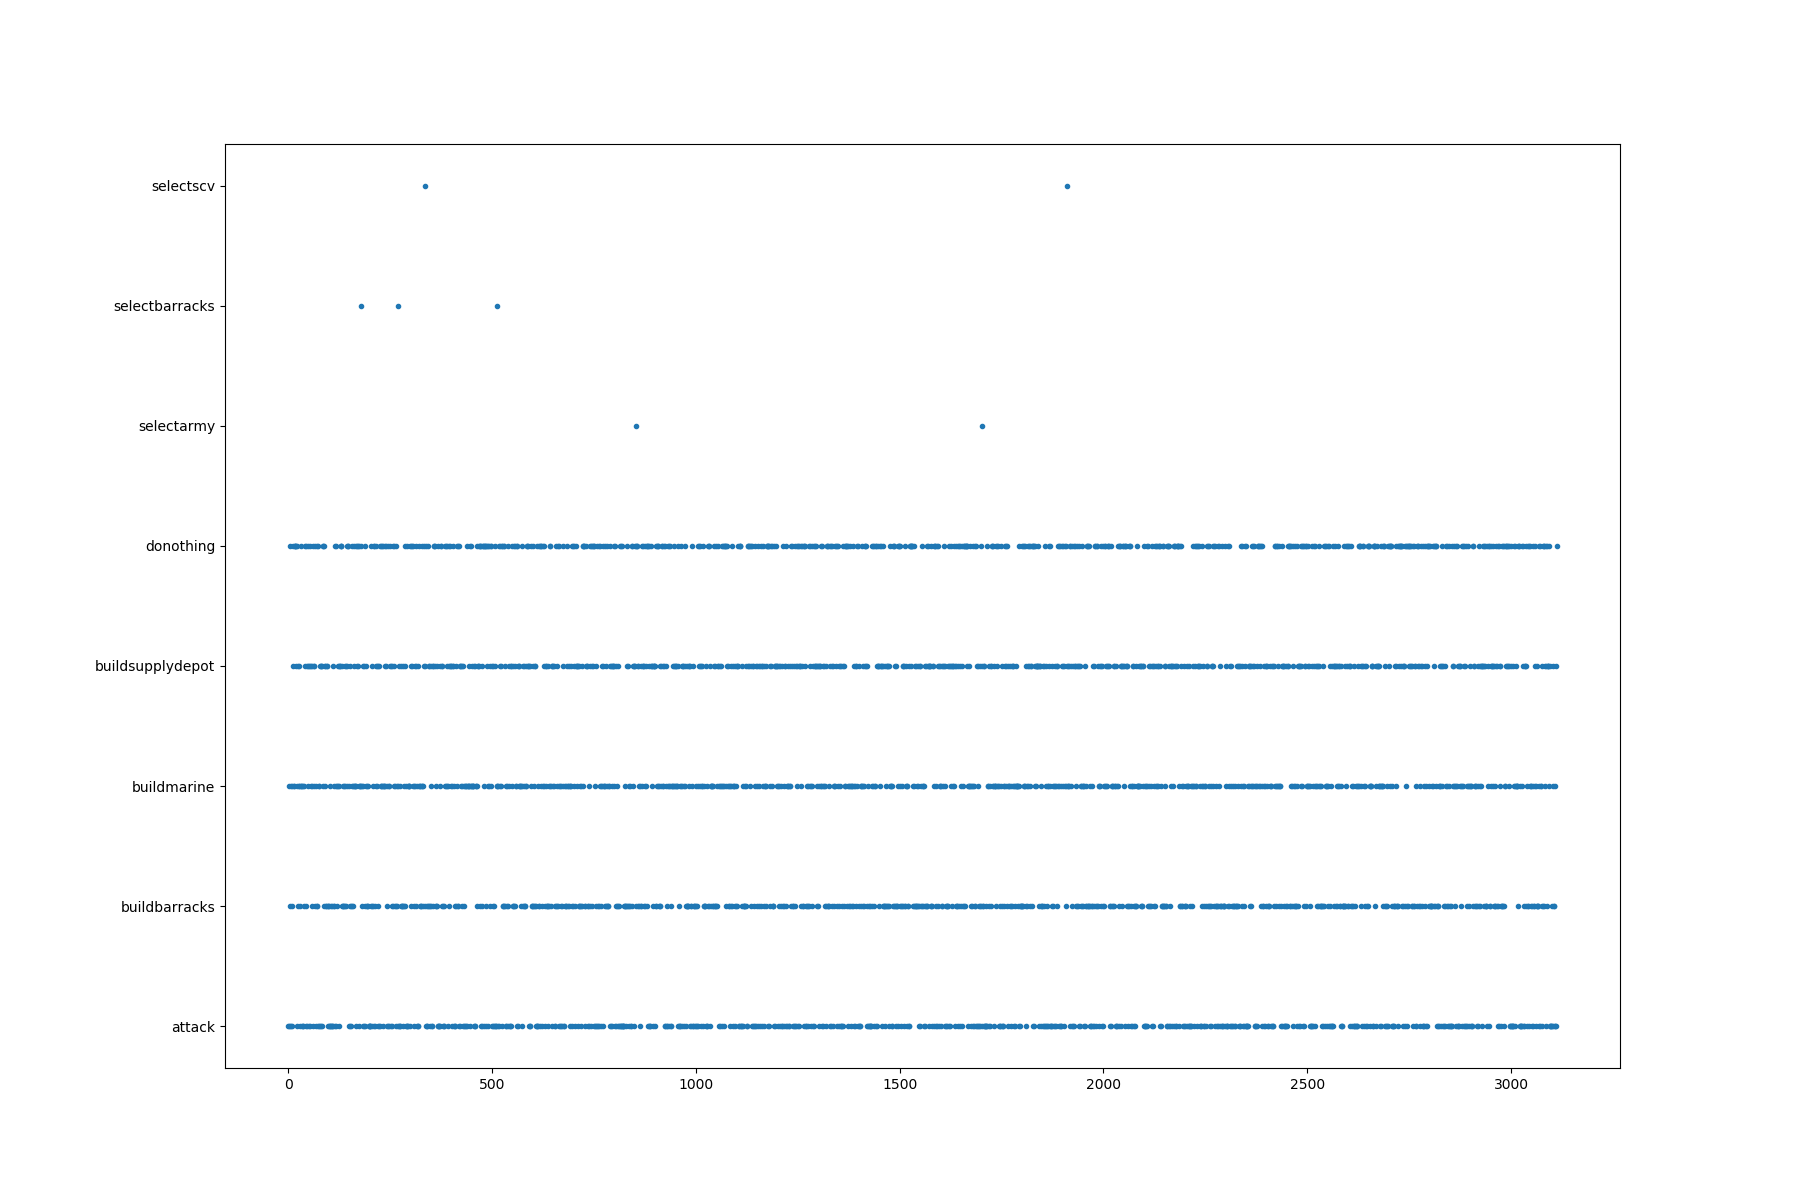
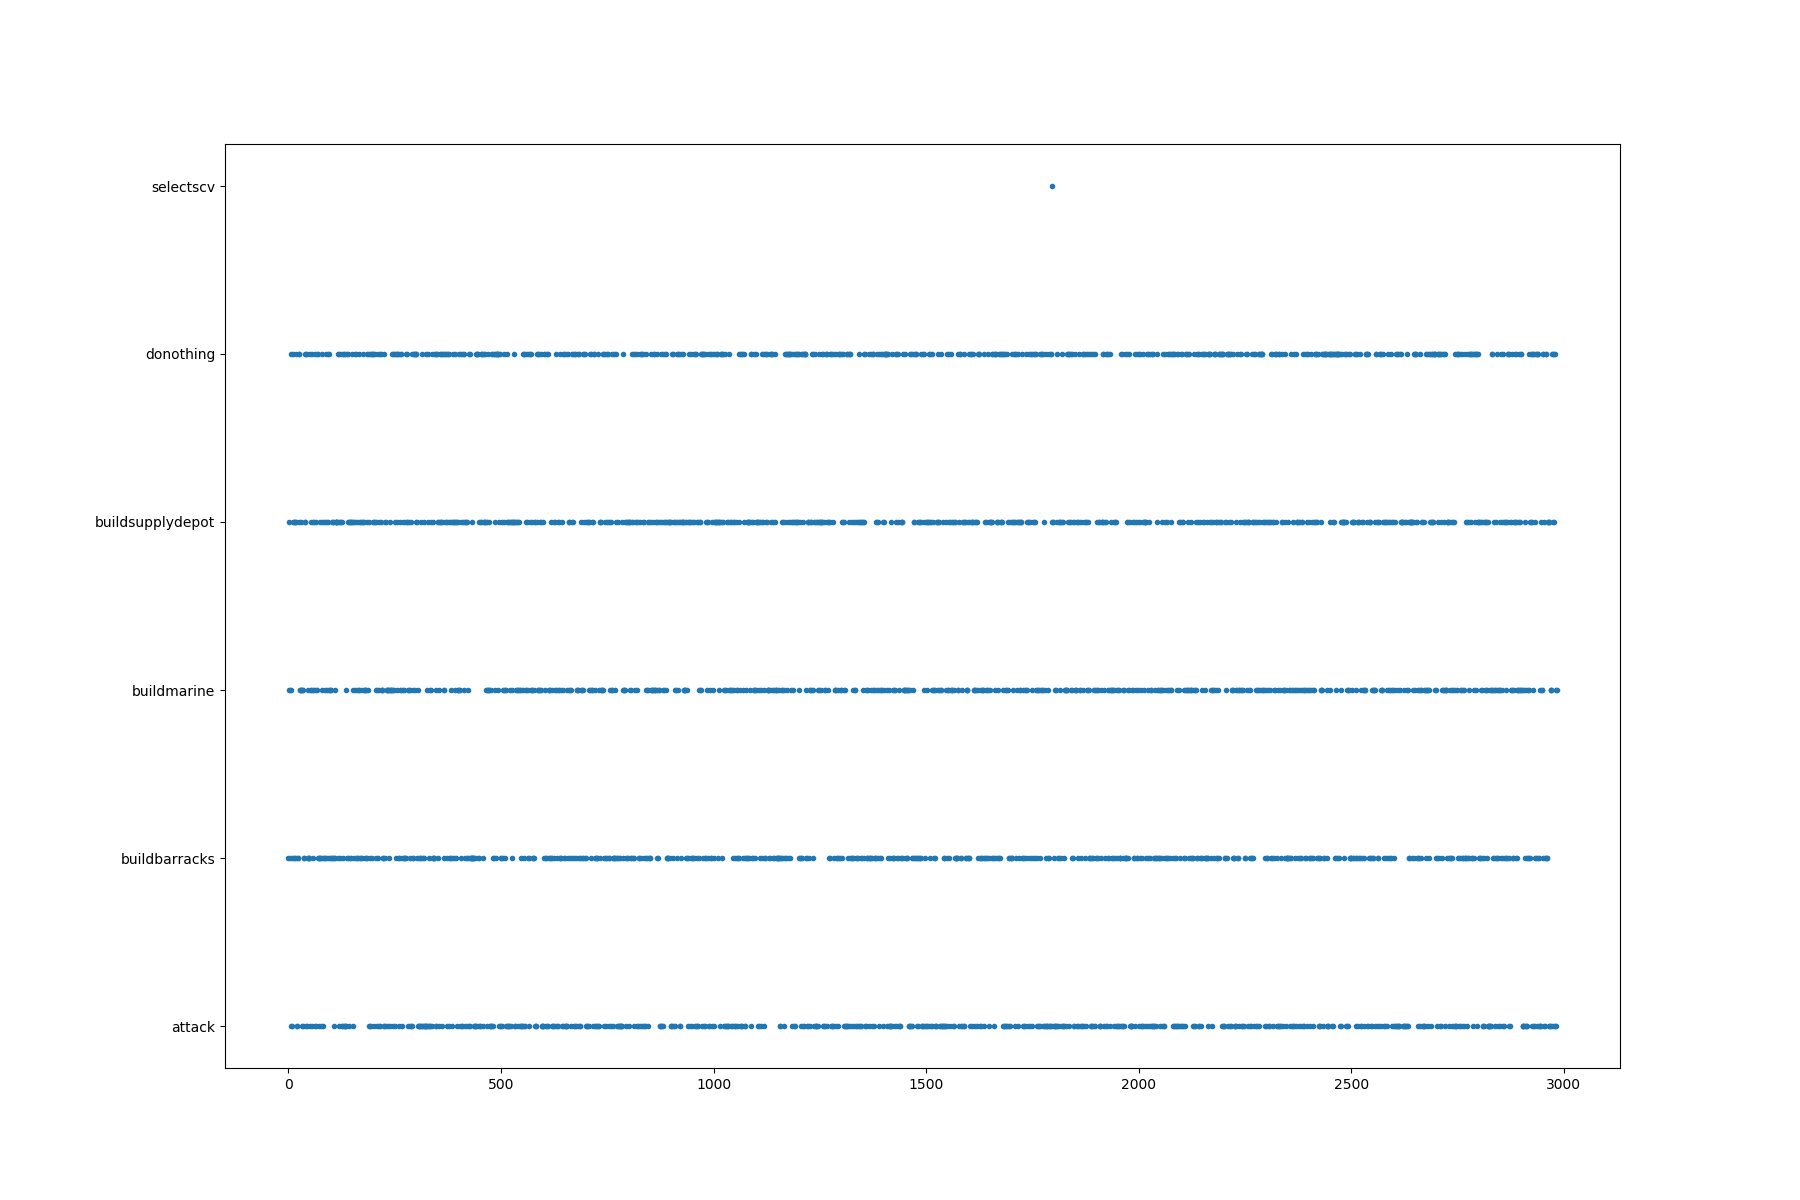
Changed over to alpha-zero-esque NN

diff --git a/src/QAgent.py b/src/QAgent.py
@@ -3,7 +3,6 @@ import torch.nn as nn
 import torch.nn.functional as F
 import torch.optim as optim
 import os
-import gc
 
 import matplotlib.pyplot as plt
 
@@ -13,32 +12,40 @@ from collections import namedtuple
 from pysc2.agents import base_agent
 from actions.actions import *
 from pysc2.lib import actions
-from pympler.tracker import SummaryTracker
 
 DATA_FILE = 'sparse_agent_data'
-USE_CUDA = False
+USE_CUDA = True
 SavedAction = namedtuple('SavedAction', ['log_prob', 'value'])
+layer = 2
+num_layers = 20
+
+
+def convolution_layer(x, input_layers):
+    conv1 = nn.Conv2d(input_layers, 256, kernel_size=3, stride=1).cuda()
+    bn1 = nn.BatchNorm2d(256).cuda()
+    return F.relu(bn1(conv1(x)))
+
+
+def residual_layer(x, input_layers, layer_size):
+    conv1 = nn.Conv2d(input_layers, 256, kernel_size=3, stride=1).cuda()
+    bn1 = nn.BatchNorm2d(256).cuda()
+    conv2 = nn.Conv2d(256, 256, kernel_size=3, stride=1).cuda()
+    bn2 = nn.BatchNorm2d(256).cuda()
+    return torch.cat((F.relu(bn2(conv2(F.relu(bn1(conv1(x)))))), x[:, :input_layers, :layer_size, :layer_size]), 1)
 
 
 class Policy(nn.Module):
     def __init__(self):
         super(Policy, self).__init__()
-        self.conv1 = nn.Conv2d(4, 84, kernel_size=3, stride=1)
-        self.bn1 = nn.BatchNorm2d(84)
-        self.conv2 = nn.Conv2d(84, 256, kernel_size=3, stride=1)
-        self.bn2 = nn.BatchNorm2d(256)
-        self.conv3 = nn.Conv2d(256, 512, kernel_size=3, stride=1)
-        self.bn3 = nn.BatchNorm2d(512)
-        self.conv4 = nn.Conv2d(512, 256, kernel_size=3, stride=1)
-        self.bn4 = nn.BatchNorm2d(256)
-        self.mp = nn.MaxPool2d(5)
-        self.lin1 = nn.Linear(1024, 4096)
-        self.lin2 = nn.Linear(4096, 1024)
-        self.action_head = nn.Linear(1024, len(ACTIONS.smart_actions))
-        self.value_head = nn.Linear(1024, 1)
+        residual_out_size = 81920
+        self.mp = nn.MaxPool2d(8)
+        self.lin1 = nn.Linear(residual_out_size, 8192)
+        self.action_head = nn.Linear(8192, len(ACTIONS.smart_actions))
+        self.value_head = nn.Linear(8192, 1)
         self.saved_log_probs = []
         self.rewards = []
         self.saved_actions = []
+        self.updated = 0
 
     def select_action(self, state):
         state = torch.from_numpy(state).float().unsqueeze(0)
@@ -48,22 +55,25 @@ class Policy(nn.Module):
             probs, state_value = self.forward(Variable(state))
         m = Categorical(probs)
         action = m.sample()
-        self.saved_actions.append(SavedAction(m.log_prob(action), state_value))
+        self.saved_actions.append(SavedAction(m.log_prob(action).data[0], state_value.data[0][0]))
+        # self.saved_actions.append(SavedAction(m.log_prob(action), state_value))
         return action.data[0]
 
     def forward(self, x):
-        x = self.mp(F.relu(self.bn1(self.conv1(x))))
-        x = F.relu(self.bn2(self.conv2(x)))
-        x = F.relu(self.bn3(self.conv3(x)))
-        x = self.mp(F.relu(self.bn4(self.conv4(x))))
+        x = convolution_layer(x, layer * num_layers)
+        x = residual_layer(x, 256, 78)
+        x = residual_layer(x, 256 * 2, 74)
+        x = residual_layer(x, 256 * 3, 70)
+        x = self.mp(residual_layer(x, 256 * 4, 66))
         x = F.relu(self.lin1(x.view(x.size(0), -1)))
-        x = F.relu(self.lin2(x))
         action_scores = self.action_head(x)
         state_values = self.value_head(x)
         return F.softmax(action_scores, dim=-1), state_values
 
 
 def finish_episode(model, optimizer):
+    model.updated += 1
+    print("Updated Model: ", model.updated, " times")
     R = 0
     saved_actions = model.saved_actions
     policy_losses = []
@@ -75,9 +85,11 @@ def finish_episode(model, optimizer):
     rewards = torch.Tensor(rewards)
     rewards = (rewards - rewards.mean()) / (rewards.std() + np.finfo(np.float32).eps)
     for (log_prob, value), r in zip(saved_actions, rewards):
+        log_prob = Variable(torch.FloatTensor([log_prob]), requires_grad=True).cuda()
+        value = Variable(torch.FloatTensor([[value]]), requires_grad=True).cuda()
         reward = r - value.data[0]
         policy_losses.append(-log_prob * Variable(reward))
-        value_losses.append(F.smooth_l1_loss(value, Variable(torch.Tensor([r]))))
+        value_losses.append(F.smooth_l1_loss(value, Variable(torch.Tensor([r])).cuda()))
     optimizer.zero_grad()
     loss = torch.stack(policy_losses).sum() + torch.stack(value_losses).sum()
     print(loss)
@@ -86,15 +98,15 @@ def finish_episode(model, optimizer):
     del model.rewards[:]
     del model.saved_actions[:]
 
+policy = Policy()
 
 class RLAgent(base_agent.BaseAgent):
     def __init__(self):
         super(RLAgent, self).__init__()
-
-        self.policy = Policy()
+        self.policy = policy
         if USE_CUDA and torch.cuda.is_available():
             self.policy = self.policy.cuda()
-        self.optimizer = optim.Adam(self.policy.parameters(), lr=1e-5)
+        self.optimizer = optim.Adam(self.policy.parameters(), lr=1e-2)
 
         self.previous_action = None
         self.previous_state = None
@@ -108,6 +120,7 @@ class RLAgent(base_agent.BaseAgent):
         self.actions = []
         self.cc_y = None
         self.cc_x = None
+        self.rl_input = None
 
         self.move_number = 0
 
@@ -115,7 +128,7 @@ class RLAgent(base_agent.BaseAgent):
         # self.qlearn.save_q_table()
         self.episodes += 1
         print("Running episode: ", self.episodes)
-        print("Won: ", self.won, " Lost: ", self.lost)
+        print("Won: ", self.won, " Lost: ", self.lost, "Tied: ", self.tied)
 
     def step(self, obs):
         super(RLAgent, self).step(obs)
@@ -188,10 +201,10 @@ class RLAgent(base_agent.BaseAgent):
                 killed_unit_score = obs.observation['score_cumulative'][5]
                 killed_building_score = obs.observation['score_cumulative'][6]
 
-                if killed_building_score > self.previous_killed_building_score:
-                    reward += 1
-                if killed_unit_score > self.previous_killed_units_score:
-                    reward += 0.05
+                # if killed_building_score > self.previous_killed_building_score:
+                #     reward += 1
+                # if killed_unit_score > self.previous_killed_units_score:
+                #     reward += 0.05
 
                 self.policy.rewards.append(reward)
                 # finish_episode(self.policy, self.optimizer)
@@ -199,37 +212,57 @@ class RLAgent(base_agent.BaseAgent):
                 self.previous_killed_building_score = killed_building_score
                 self.previous_killed_units_score = killed_unit_score
 
-            rl_input = np.array([np.pad(obs.observation['minimap'][0], [(0, 20), (0, 20)], mode='constant'),
-                                 np.pad(obs.observation['minimap'][1], [(0, 20), (0, 20)], mode='constant'),
-                                 np.pad(obs.observation['minimap'][5], [(0, 20), (0, 20)], mode='constant'),
+            # if self.rl_input is None:
+            #     self.rl_input = np.array([np.pad(obs.observation['minimap'][0], [(0, 20), (0, 20)], mode='constant'),
+            #                      np.pad(obs.observation['minimap'][1], [(0, 20), (0, 20)], mode='constant'),
+            #                      np.pad(obs.observation['minimap'][5], [(0, 20), (0, 20)], mode='constant'),
+            #                      obs.observation['screen'][6]])
+            # else:
+            #     self.rl_input = np.concatenate((self.rl_input, np.array([np.pad(obs.observation['minimap'][0], [(0, 20), (0, 20)], mode='constant'),
+            #                      np.pad(obs.observation['minimap'][1], [(0, 20), (0, 20)], mode='constant'),
+            #                      np.pad(obs.observation['minimap'][5], [(0, 20), (0, 20)], mode='constant'),
+            #                      obs.observation['screen'][6]])))
+
+            if self.rl_input is None:
+                self.rl_input = np.array([np.pad(obs.observation['minimap'][5], [(0, 20), (0, 20)], mode='constant'),
                                  obs.observation['screen'][6]])
-            rl_action = self.policy.select_action(rl_input)
+                for _ in range(num_layers - 1):
+                    self.rl_input = np.concatenate((self.rl_input, np.array(
+                        [np.pad(obs.observation['minimap'][5], [(0, 20), (0, 20)], mode='constant'),
+                         obs.observation['screen'][6]])))
+            else:
+                self.rl_input = np.concatenate((self.rl_input, np.array([np.pad(obs.observation['minimap'][5], [(0, 20), (0, 20)], mode='constant'),
+                                 obs.observation['screen'][6]])))
 
-            self.previous_state = current_state
-            self.previous_action = rl_action
+            if self.rl_input.shape == (layer * num_layers, 84, 84):
+                rl_action = self.policy.select_action(self.rl_input)
+                self.rl_input = np.delete(self.rl_input, np.s_[0:2], axis=0)
 
-            smart_action, x, y = split_action(self.previous_action)
-            self.actions.append(smart_action)
+                self.previous_state = current_state
+                self.previous_action = rl_action
 
-            if smart_action == ACTIONS.ACTION_BUILD_BARRACKS or smart_action == ACTIONS.ACTION_BUILD_SUPPLY_DEPOT:
-                unit_y, unit_x = (unit_type == UNITS.TERRAN_SCV).nonzero()
+                smart_action, x, y = split_action(self.previous_action)
+                self.actions.append(smart_action)
 
-                if unit_y.any():
-                    i = random.randint(0, len(unit_y) - 1)
-                    target = [unit_x[i], unit_y[i]]
+                if smart_action == ACTIONS.ACTION_BUILD_BARRACKS or smart_action == ACTIONS.ACTION_BUILD_SUPPLY_DEPOT:
+                    unit_y, unit_x = (unit_type == UNITS.TERRAN_SCV).nonzero()
 
-                    return actions.FunctionCall(ACTIONS.SELECT_POINT, [MISC.NOT_QUEUED, target])
+                    if unit_y.any():
+                        i = random.randint(0, len(unit_y) - 1)
+                        target = [unit_x[i], unit_y[i]]
 
-            elif smart_action == ACTIONS.ACTION_BUILD_MARINE:
-                if barracks_y.any():
-                    i = random.randint(0, len(barracks_y) - 1)
-                    target = [barracks_x[i], barracks_y[i]]
+                        return actions.FunctionCall(ACTIONS.SELECT_POINT, [MISC.NOT_QUEUED, target])
 
-                    return actions.FunctionCall(ACTIONS.SELECT_POINT, [MISC.SELECT_ALL, target])
+                elif smart_action == ACTIONS.ACTION_BUILD_MARINE:
+                    if barracks_y.any():
+                        i = random.randint(0, len(barracks_y) - 1)
+                        target = [barracks_x[i], barracks_y[i]]
 
-            elif smart_action == ACTIONS.ACTION_ATTACK:
-                if ACTIONS.SELECT_ARMY in obs.observation['available_actions']:
-                    return actions.FunctionCall(ACTIONS.SELECT_ARMY, [MISC.NOT_QUEUED])
+                        return actions.FunctionCall(ACTIONS.SELECT_POINT, [MISC.SELECT_ALL, target])
+
+                elif smart_action == ACTIONS.ACTION_ATTACK:
+                    if ACTIONS.SELECT_ARMY in obs.observation['available_actions']:
+                        return actions.FunctionCall(ACTIONS.SELECT_ARMY, [MISC.NOT_QUEUED])
 
         elif self.move_number == 1:
             self.move_number += 1
